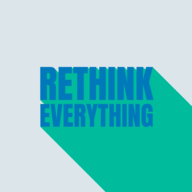
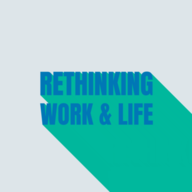
Renamed podcast & site based on feedback

Changed region(s): [[0.1875, 0.3438, 1.0, 1.0]]

diff --git a/_layouts/episode.html b/_layouts/episode.html
@@ -22,7 +22,6 @@
             <div class="row">
               <div class="col py-2">
                 <span class="guest-name">{{ page.air-date }} </span>
-                <span class="text-muted">(recorded on {{ page.record-date }})</span>
               </div>
             </div>
             <div class="row">
@@ -48,11 +47,6 @@
                    href="https://open.spotify.com/show/{{ site.spotify-show-id }}"
                    data-original-title="Listen on Spotify">
                   <img src="/assets/img/players/spotify.svg" alt="Spotify icon"/>
-                </a>
-                <a class="subscribe-link" title="" data-toggle="tooltip"
-                   href="https://podfollow.com/{{ site.podfollow-show-id }}"
-                   data-original-title="Follow via Podfollow">
-                  <img src="/assets/img/players/podfollow.png" alt="Spotify icon"/>
                 </a>
               </div>
             </div>

diff --git a/_includes/navbar.html b/_includes/navbar.html
@@ -2,7 +2,7 @@
   <nav class="rethink-navbar navbar navbar-expand-lg">
     <div class="container">
       <a href="/" class="navbar-brand d-flex align-items-center my-2 text-white text-decoration-none">
-        <img height="50" class="px-2" src="/assets/img/podcast logo.png" alt="Rethink Everything Logo"/>
+        <img height="50" class="px-2" src="/assets/img/podcast logo.png" alt="Rethinking Work & Life Logo"/>
         <span class="site-title text-wrap">{{ site.title }}</span>
       </a>
       <button class="navbar-toggler" type="button" data-bs-toggle="collapse" data-bs-target="#navbarSupportedContent" aria-controls="navbarSupportedContent" aria-expanded="false" aria-label="Toggle navigation">
